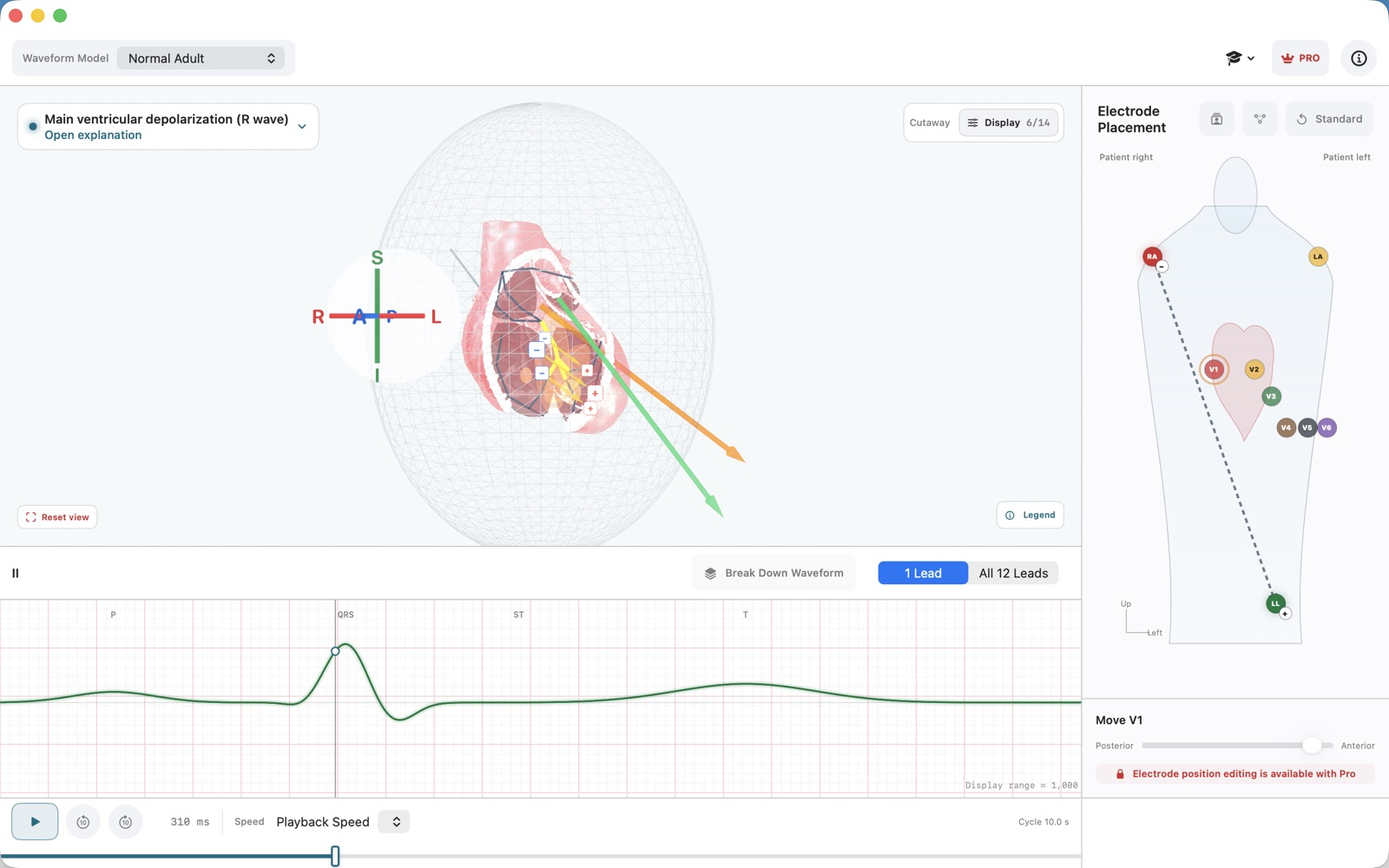
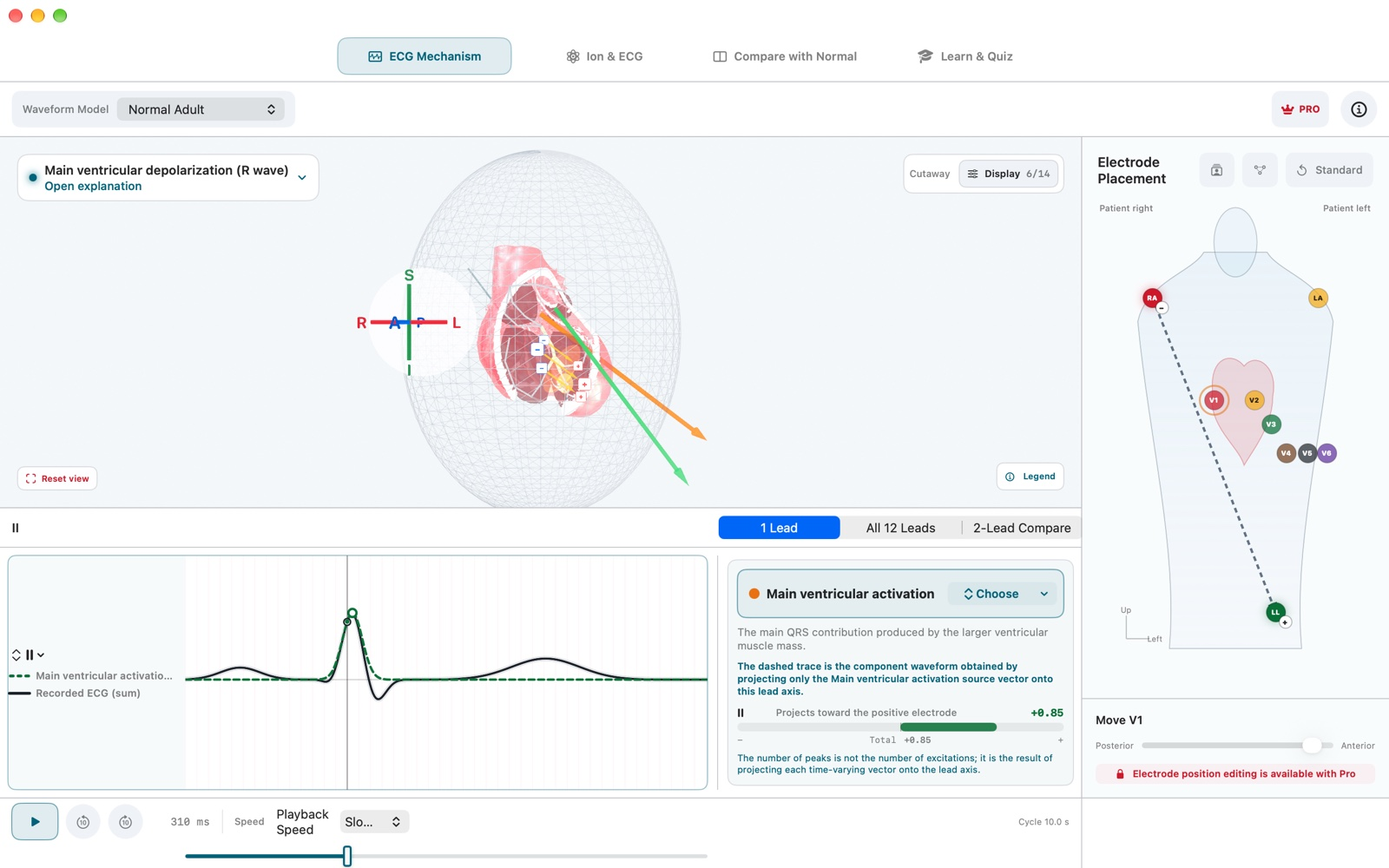
Update ECG Vector launch page and App Store links

diff --git a/ja/apps/ecg-vector/index.html b/ja/apps/ecg-vector/index.html
@@ -3,9 +3,9 @@
 <head>
   <meta charset="utf-8">
   <meta name="viewport" content="width=device-width, initial-scale=1">
-  <meta name="description" content="ECG Vectorは、心臓内の電気活動、心起電力ベクトル、誘導軸、心電図波形を同じ時間軸で学べるMac・iPhone・iPad対応の教育用3Dシミュレータです。">
+  <meta name="description" content="ECG Vectorは、3D心臓と12誘導心電図に加え、イオン電流・電解質から活動電位、QT時間、各誘導波形までをつなげて学べるMac・iPhone・iPad対応の教育用シミュレータです。">
   <meta property="og:title" content="ECG Vector — 心電図学習シミュレータ">
-  <meta property="og:description" content="ひとつの心起電力が、誘導ごとに違う波形になる理由を3Dで。">
+  <meta property="og:description" content="3D心臓、イオンチャネル、正常比較、クイズを通して、心電図がそう見える理由を学べます。">
   <meta property="og:type" content="website">
   <meta property="og:url" content="https://nakano-lab.github.io/ja/apps/ecg-vector/">
   <meta property="og:image" content="https://nakano-lab.github.io/assets/images/ecg-vector/ja/mac-simulation.jpg">
@@ -21,7 +21,7 @@
   <header class="site-header">
     <nav class="nav-wrap" aria-label="メインナビゲーション">
       <a class="brand" href="/ja/"><span class="brand-mark">N</span><span>Nakano Lab Software</span></a>
-      <div class="nav-links"><a href="/ja/#apps">アプリ</a><a href="/ja/apps/ecg-vector/support/">サポート</a><a href="/ja/apps/ecg-vector/privacy/">プライバシー</a><a class="language-link" href="/en/apps/ecg-vector/" lang="en" data-language-link="en">EN</a></div>
+      <div class="nav-links"><a href="/ja/#apps">アプリ</a><a href="https://apps.apple.com/app/ecg-vector/id6798066790">App Store</a><a href="/ja/apps/ecg-vector/support/">サポート</a><a href="/ja/apps/ecg-vector/privacy/">プライバシー</a><a class="language-link" href="/en/apps/ecg-vector/" lang="en" data-language-link="en">EN</a></div>
     </nav>
   </header>
 
@@ -36,18 +36,18 @@
           <div class="meta-row"><span class="tag">macOS 14+</span><span class="tag">iPhone</span><span class="tag">iPad</span><span class="tag">iOS 17+</span><span class="tag">10言語対応</span></div>
         </div>
       </div>
-      <p class="lead">心臓内を伝わる興奮、時々刻々の心起電力ベクトル、誘導軸への投影、そして記録される心電図波形を、ひとつの時間軸で観察する教育用シミュレータです。</p>
-      <div class="button-row"><a class="button primary" href="#features">機能を見る <span aria-hidden="true">↓</span></a><a class="button" href="/ja/apps/ecg-vector/support/">使い方・サポート</a></div>
+      <p class="lead">心臓内の興奮と心起電力ベクトル、イオン電流と活動電位、正常波形との違い、そして学習クイズを、4つの主要画面でつなげて学ぶ教育用シミュレータです。</p>
+      <div class="button-row"><a class="button primary" href="https://apps.apple.com/app/ecg-vector/id6798066790">App Storeで入手 <span aria-hidden="true">↗</span></a><a class="button" href="#features">機能を見る <span aria-hidden="true">↓</span></a><a class="button" href="/ja/apps/ecg-vector/support/">使い方・サポート</a></div>
     </section>
 
     <section class="section tinted" id="features">
       <div class="container">
-        <div class="section-head reveal"><p class="eyebrow">See the connection</p><h2 class="section-title">電気の流れから、波形の山まで。</h2><p class="section-copy">3D心臓と波形カーソルを同期させ、心電図が「そう見える理由」を途中のベクトルからたどれます。</p></div>
+        <div class="section-head reveal"><p class="eyebrow">Four workspaces</p><h2 class="section-title">心電図のしくみを、4つの視点で。</h2><p class="section-copy">3Dの電気活動からイオンチャネル、正常比較、クイズまで、主要機能を同じメイン画面のタブで切り替えられます。</p></div>
         <div class="feature-grid">
-          <article class="feature reveal"><span class="feature-number">01</span><h3>3D心臓と刺激伝導</h3><p>断面と外観を切り替え、洞結節から心房、房室結節、His–Purkinje系、心室へ広がる興奮を観察。電気活動に少し遅れる心房・心室の機械的収縮も表示します。</p></article>
-          <article class="feature reveal"><span class="feature-number">02</span><h3>心起電力と誘導投影</h3><p>波面上の微小双極子が加算・相殺されて心起電力 M(t) になり、誘導軸 L への投影 V(t) = M(t) · L が波形の上下として記録される流れを可視化します。</p></article>
-          <article class="feature reveal"><span class="feature-number">03</span><h3>2誘導で波形を分解</h3><p>同じ起電力成分を2つの誘導へ投影し、選択成分と合計波形を比較。ある誘導では1峰、別の誘導では2峰に見える理由を時間ごとに追えます。</p></article>
-          <article class="feature reveal"><span class="feature-number">04</span><h3>同期した12誘導一覧</h3><p>臨床で見慣れた3行×4列の配置で全12誘導を同じ時刻・同じ縦スケールに表示。波形カードを選ぶと、その誘導が3D表示と拡大波形へ反映されます。</p></article>
+          <article class="feature reveal"><span class="feature-number">01</span><h3>心電図のしくみ</h3><p>回転できる3D心臓で、興奮・再分極、心起電力、誘導軸への投影、12誘導波形を同じ時間軸に同期。1誘導の成分分解や2誘導比較で、波形がそう見える理由をたどれます。</p></article>
+          <article class="feature reveal"><span class="feature-number">02</span><h3>イオンと心電図</h3><p>ナトリウム・カルシウム・カリウム電流や細胞外電解質の変化が、心室活動電位、PR・QRS・QTなどの指標、選択誘導の波形へどう伝わるかを因果の流れで確認できます。</p></article>
+          <article class="feature reveal"><span class="feature-number">03</span><h3>正常と比較</h3><p>成人正常と右脚ブロックなどの典型波形を並べ、同じ誘導・同じ時間軸で比較。変化した区間と、その背景にある興奮伝播を見比べられます。</p></article>
+          <article class="feature reveal"><span class="feature-number">04</span><h3>学習・クイズ</h3><p>波形の特徴からモデルを見分ける問題で理解を確認。解答後は正常との差や注目すべき所見を、そのままシミュレーションで復習できます。</p></article>
           <article class="feature reveal"><span class="feature-number">05</span><h3>正常・小児・典型波形</h3><p>成人正常、小児正常、心房細動、右脚・左脚ブロック、軸偏位、左室肥大、ST上昇などの単純化した典型例を切り替えられます。</p></article>
           <article class="feature reveal"><span class="feature-number">06</span><h3>スロー再生とコマ送り</h3><p>0.05倍まで速度を落とし、一時停止、時間軸スクラブ、10 msコマ送りに対応。表示項目と心臓の透明度も同じパネルから調整できます。</p></article>
           <article class="feature reveal"><span class="feature-number">07</span><h3>Mac・iPhone・iPad</h3><p>MacとiPadでは一覧性を生かし、iPhoneでは3D、解説、波形を同時に確認しやすい構成へ。日本語、英語を含む主要10言語に対応します。</p></article>
@@ -60,8 +60,8 @@
         <div class="section-head reveal"><p class="eyebrow">In the app</p><h2 class="section-title">3D、解説、波形を同じ視界に。</h2></div>
         <div class="screenshot-grid">
           <figure class="shot reveal"><img src="/assets/images/ecg-vector/ja/mac-simulation.jpg" alt="Mac版ECG Vectorで3D心臓、誘導軸、波形を表示している画面" width="1600" height="1000" loading="lazy"><figcaption>Mac — 3D心臓と選択誘導の波形を同期</figcaption></figure>
-          <figure class="shot portrait reveal"><img src="/assets/images/ecg-vector/ja/ipad-breakdown.jpg" alt="iPad版ECG Vectorの2誘導波形分解画面" width="900" height="1200" loading="lazy"><figcaption>iPad — 2誘導へ投影して波形を分解</figcaption></figure>
-          <figure class="shot reveal"><img src="/assets/images/ecg-vector/ja/iphone-twelve-leads.jpg" alt="iPhone版ECG Vectorの12誘導一覧画面" width="1400" height="647" loading="lazy"><figcaption>iPhone — 12誘導を一覧して3D表示を選択</figcaption></figure>
+          <figure class="shot portrait reveal"><img src="/assets/images/ecg-vector/ja/ipad-breakdown.jpg" alt="iPad版ECG Vectorでイオン電流から活動電位と心電図の変化を表示している画面" width="900" height="1200" loading="lazy"><figcaption>iPad — イオン電流から活動電位・QT・心電図へ</figcaption></figure>
+          <figure class="shot reveal"><img src="/assets/images/ecg-vector/ja/iphone-twelve-leads.jpg" alt="iPhone版ECG Vectorで右脚ブロックを成人正常と比較している画面" width="1400" height="644" loading="lazy"><figcaption>iPhone — 典型波形を成人正常と並べて比較</figcaption></figure>
         </div>
       </div>
     </section>
@@ -69,15 +69,15 @@
     <section class="section tinted">
       <div class="container">
         <div class="split">
-          <article class="info-card reveal"><p class="eyebrow">Free</p><h3>成人正常から始める</h3><p>成人正常波形、代表6誘導（I、II、aVF、V1、V4、V6）、固定された標準電極位置を利用できます。3D、同期再生、スロー再生の基本学習を無料で試せます。</p></article>
-          <article class="info-card reveal"><p class="eyebrow">ECG Vector Pro</p><h3>買い切りで学習範囲を拡張</h3><p>サブスクリプションではありません。小児・典型疾患、全12誘導・任意誘導、電極位置編集と誤配置、正常比較、波形クイズ、お気に入りを解放します。同じApple Accountで購入を復元できます。</p></article>
+          <article class="info-card reveal"><p class="eyebrow">Free</p><h3>主要機能を無料で体験</h3><p>成人正常と右脚ブロック、標準12誘導、固定された標準電極位置、正常比較・クイズの体験、お気に入り、イオンと心電図の4つのガイド例を利用できます。</p></article>
+          <article class="info-card reveal"><p class="eyebrow">ECG Vector Pro</p><h3>買い切りで学習範囲を拡張</h3><p>サブスクリプションではありません。イオン電流・電解質の自由調整と同期12誘導表示、小児・その他の典型疾患、任意誘導、電極位置編集と誤配置、正常比較・クイズ全編を解放します。</p></article>
         </div>
-        <div class="button-row"><a class="button" href="/ja/apps/ecg-vector/support/">サポート</a><a class="button" href="/ja/apps/ecg-vector/privacy/">プライバシーポリシー</a></div>
+        <div class="button-row"><a class="button primary" href="https://apps.apple.com/app/ecg-vector/id6798066790">App Storeで入手 <span aria-hidden="true">↗</span></a><a class="button" href="/ja/apps/ecg-vector/support/">サポート</a><a class="button" href="/ja/apps/ecg-vector/privacy/">プライバシーポリシー</a></div>
       </div>
     </section>
   </main>
 
-  <footer class="site-footer"><div class="container footer-row"><p class="footer-copy">© <span data-current-year>2026</span> Takashi Nakano. All rights reserved.</p><div class="footer-links"><a href="/ja/apps/ecg-vector/support/">サポート</a><a href="/ja/apps/ecg-vector/privacy/">プライバシー</a></div></div></footer>
+  <footer class="site-footer"><div class="container footer-row"><p class="footer-copy">© <span data-current-year>2026</span> Takashi Nakano. All rights reserved.</p><div class="footer-links"><a href="https://apps.apple.com/app/ecg-vector/id6798066790">App Store</a><a href="/ja/apps/ecg-vector/support/">サポート</a><a href="/ja/apps/ecg-vector/privacy/">プライバシー</a></div></div></footer>
   <script src="/assets/js/site.js" defer></script>
 </body>
 </html>

diff --git a/en/apps/ecg-vector/index.html b/en/apps/ecg-vector/index.html
@@ -3,9 +3,9 @@
 <head>
   <meta charset="utf-8">
   <meta name="viewport" content="width=device-width, initial-scale=1">
-  <meta name="description" content="ECG Vector is an educational 3D simulator for Mac, iPhone, and iPad that connects cardiac electrical activity, the cardiac vector, lead projection, and recorded ECG waveforms.">
+  <meta name="description" content="ECG Vector is an educational simulator for Mac, iPhone, and iPad that connects a 3D heart and 12-lead ECG with ion currents, action potentials, QT changes, normal comparison, and quizzes.">
   <meta property="og:title" content="ECG Vector — 3D Cardiac Lead Simulator">
-  <meta property="og:description" content="See why one cardiac vector becomes a different waveform in every lead.">
+  <meta property="og:description" content="Learn why an ECG looks the way it does through a 3D heart, ion channels, normal comparison, and quizzes.">
   <meta property="og:type" content="website">
   <meta property="og:url" content="https://nakano-lab.github.io/en/apps/ecg-vector/">
   <meta property="og:image" content="https://nakano-lab.github.io/assets/images/ecg-vector/en/mac-simulation.jpg">
@@ -21,7 +21,7 @@
   <header class="site-header">
     <nav class="nav-wrap" aria-label="Main navigation">
       <a class="brand" href="/en/"><span class="brand-mark">N</span><span>Nakano Lab Software</span></a>
-      <div class="nav-links"><a href="/en/#apps">Apps</a><a href="/en/apps/ecg-vector/support/">Support</a><a href="/en/apps/ecg-vector/privacy/">Privacy</a><a class="language-link" href="/ja/apps/ecg-vector/" lang="ja" data-language-link="ja">日本語</a></div>
+      <div class="nav-links"><a href="/en/#apps">Apps</a><a href="https://apps.apple.com/app/ecg-vector/id6798066790">App Store</a><a href="/en/apps/ecg-vector/support/">Support</a><a href="/en/apps/ecg-vector/privacy/">Privacy</a><a class="language-link" href="/ja/apps/ecg-vector/" lang="ja" data-language-link="ja">日本語</a></div>
     </nav>
   </header>
 
@@ -32,18 +32,18 @@
         <img class="product-icon" src="/assets/images/ecg-vector/icon.png" alt="ECG Vector icon" width="512" height="512">
         <div><h1 class="page-title">ECG Vector</h1><p class="page-subtitle">3D Cardiac Lead Simulator</p><div class="meta-row"><span class="tag">macOS 14+</span><span class="tag">iPhone</span><span class="tag">iPad</span><span class="tag">iOS 17+</span><span class="tag">10 languages</span></div></div>
       </div>
-      <p class="lead">Observe excitation inside the heart, the changing cardiac vector, its projection onto a lead axis, and the recorded ECG waveform on one synchronized timeline.</p>
-      <div class="button-row"><a class="button primary" href="#features">Explore the features <span aria-hidden="true">↓</span></a><a class="button" href="/en/apps/ecg-vector/support/">Help &amp; support</a></div>
+      <p class="lead">Connect excitation and cardiac vectors, ion currents and action potentials, comparison with normal, and learning quizzes across four integrated workspaces.</p>
+      <div class="button-row"><a class="button primary" href="https://apps.apple.com/app/ecg-vector/id6798066790">Download on the App Store <span aria-hidden="true">↗</span></a><a class="button" href="#features">Explore the features <span aria-hidden="true">↓</span></a><a class="button" href="/en/apps/ecg-vector/support/">Help &amp; support</a></div>
     </section>
 
     <section class="section tinted" id="features">
       <div class="container">
-        <div class="section-head reveal"><p class="eyebrow">See the connection</p><h2 class="section-title">From electrical flow to every peak.</h2><p class="section-copy">The 3D heart and waveform cursor stay synchronized, so you can follow why the ECG looks the way it does through the vectors in between.</p></div>
+        <div class="section-head reveal"><p class="eyebrow">Four workspaces</p><h2 class="section-title">Understand the ECG from four angles.</h2><p class="section-copy">Move between 3D cardiac activity, ion channels, comparison with normal, and quizzes from the main workspace tabs.</p></div>
         <div class="feature-grid">
-          <article class="feature reveal"><span class="feature-number">01</span><h3>3D heart and conduction</h3><p>Switch between cutaway and exterior views. Follow excitation from the sinus node through the atria, AV node, His–Purkinje system, and ventricles, with mechanical atrial and ventricular contraction shown after electrical activation.</p></article>
-          <article class="feature reveal"><span class="feature-number">02</span><h3>Cardiac vector and projection</h3><p>See local microdipoles add and cancel into M(t), then project onto lead axis L. The signed component V(t) = M(t) · L becomes the upward or downward ECG deflection.</p></article>
-          <article class="feature reveal"><span class="feature-number">03</span><h3>Break down two leads</h3><p>Project the same source component onto two leads and compare the selected component with the total waveform. Follow why one event can look monophasic in one lead and biphasic in another.</p></article>
-          <article class="feature reveal"><span class="feature-number">04</span><h3>Synchronized 12-lead view</h3><p>View all 12 leads in the familiar 3-by-4 clinical layout with one time cursor and vertical scale. Select a waveform card to update the 3D lead axis and enlarged trace.</p></article>
+          <article class="feature reveal"><span class="feature-number">01</span><h3>ECG Mechanism</h3><p>Synchronize excitation, repolarization, the cardiac vector, lead-axis projection, and all 12 leads with a rotatable 3D heart. Break down one lead or compare two to see why each waveform takes its shape.</p></article>
+          <article class="feature reveal"><span class="feature-number">02</span><h3>Ion &amp; ECG</h3><p>Follow how sodium, calcium, and potassium currents and extracellular electrolytes alter the ventricular action potential, ECG intervals such as QRS and QT, and lead-specific waveform morphology.</p></article>
+          <article class="feature reveal"><span class="feature-number">03</span><h3>Compare with Normal</h3><p>Place Adult Normal beside patterns such as Right Bundle Branch Block on the same lead and timeline. Compare the changed intervals with their underlying activation sequence.</p></article>
+          <article class="feature reveal"><span class="feature-number">04</span><h3>Learn &amp; Quiz</h3><p>Identify a model from its waveform features, then review the key findings and compare them directly in the simulator.</p></article>
           <article class="feature reveal"><span class="feature-number">05</span><h3>Normal, pediatric, and typical patterns</h3><p>Switch among adult and pediatric normal ECGs and simplified examples of atrial fibrillation, bundle branch block, axis deviation, ventricular hypertrophy, and ST elevation.</p></article>
           <article class="feature reveal"><span class="feature-number">06</span><h3>Slow playback and stepping</h3><p>Slow time to 0.05×, pause, scrub, or step by 10 ms. Manage visible structures and heart opacity from one display panel.</p></article>
           <article class="feature reveal"><span class="feature-number">07</span><h3>Mac, iPhone, and iPad</h3><p>Use the wider overview on Mac and iPad, or keep the 3D heart, explanation, and waveform together on iPhone. The interface supports 10 major languages.</p></article>
@@ -56,8 +56,8 @@
         <div class="section-head reveal"><p class="eyebrow">In the app</p><h2 class="section-title">3D, explanation, and waveform in one view.</h2></div>
         <div class="screenshot-grid">
           <figure class="shot reveal"><img src="/assets/images/ecg-vector/en/mac-simulation.jpg" alt="ECG Vector for Mac showing the 3D heart, lead axis, and synchronized waveform" width="1600" height="1000" loading="lazy"><figcaption>Mac — synchronize the 3D heart with the selected lead</figcaption></figure>
-          <figure class="shot portrait reveal"><img src="/assets/images/ecg-vector/en/ipad-breakdown.jpg" alt="Two-lead waveform breakdown in ECG Vector for iPad" width="900" height="1200" loading="lazy"><figcaption>iPad — project one component into two leads</figcaption></figure>
-          <figure class="shot reveal"><img src="/assets/images/ecg-vector/en/iphone-twelve-leads.jpg" alt="The synchronized 12-lead overview in ECG Vector for iPhone" width="1400" height="647" loading="lazy"><figcaption>iPhone — select the 3D lead from the 12-lead overview</figcaption></figure>
+          <figure class="shot portrait reveal"><img src="/assets/images/ecg-vector/en/ipad-breakdown.jpg" alt="ECG Vector for iPad showing how ion-current changes affect the action potential and ECG" width="900" height="1200" loading="lazy"><figcaption>iPad — from ion currents to action potential, QT, and ECG</figcaption></figure>
+          <figure class="shot reveal"><img src="/assets/images/ecg-vector/en/iphone-twelve-leads.jpg" alt="ECG Vector for iPhone comparing Right Bundle Branch Block with Adult Normal" width="1400" height="644" loading="lazy"><figcaption>iPhone — compare a typical pattern with Adult Normal</figcaption></figure>
         </div>
       </div>
     </section>
@@ -65,15 +65,15 @@
     <section class="section tinted">
       <div class="container">
         <div class="split">
-          <article class="info-card reveal"><p class="eyebrow">Free</p><h3>Start with the normal adult ECG</h3><p>Use the adult normal pattern, six representative leads (I, II, aVF, V1, V4, and V6), and fixed standard electrode positions. The core 3D, synchronized, and slow-playback learning experience is free.</p></article>
-          <article class="info-card reveal"><p class="eyebrow">ECG Vector Pro</p><h3>One purchase, broader exploration</h3><p>This is not a subscription. Unlock pediatric and typical clinical patterns, all 12 and custom leads, electrode editing and misplacement, normal comparison, waveform quizzes, and favorites. Restore on devices using the same Apple Account.</p></article>
+          <article class="info-card reveal"><p class="eyebrow">Free</p><h3>Try every core workspace</h3><p>Use Adult Normal and Right Bundle Branch Block, all 12 standard ECG leads, fixed standard electrode positions, comparison and quiz samples, favorites, and four guided Ion &amp; ECG examples.</p></article>
+          <article class="info-card reveal"><p class="eyebrow">ECG Vector Pro</p><h3>One purchase, broader exploration</h3><p>This is not a subscription. Unlock free adjustment of ion currents and electrolytes with synchronized 12-lead response, pediatric and other clinical patterns, custom leads, electrode editing and misplacement presets, and the complete comparison and quiz libraries.</p></article>
         </div>
-        <div class="button-row"><a class="button" href="/en/apps/ecg-vector/support/">Support</a><a class="button" href="/en/apps/ecg-vector/privacy/">Privacy Policy</a></div>
+        <div class="button-row"><a class="button primary" href="https://apps.apple.com/app/ecg-vector/id6798066790">Download on the App Store <span aria-hidden="true">↗</span></a><a class="button" href="/en/apps/ecg-vector/support/">Support</a><a class="button" href="/en/apps/ecg-vector/privacy/">Privacy Policy</a></div>
       </div>
     </section>
   </main>
 
-  <footer class="site-footer"><div class="container footer-row"><p class="footer-copy">© <span data-current-year>2026</span> Takashi Nakano. All rights reserved.</p><div class="footer-links"><a href="/en/apps/ecg-vector/support/">Support</a><a href="/en/apps/ecg-vector/privacy/">Privacy</a></div></div></footer>
+  <footer class="site-footer"><div class="container footer-row"><p class="footer-copy">© <span data-current-year>2026</span> Takashi Nakano. All rights reserved.</p><div class="footer-links"><a href="https://apps.apple.com/app/ecg-vector/id6798066790">App Store</a><a href="/en/apps/ecg-vector/support/">Support</a><a href="/en/apps/ecg-vector/privacy/">Privacy</a></div></div></footer>
   <script src="/assets/js/site.js" defer></script>
 </body>
 </html>

diff --git a/en/apps/ecg-vector/support/index.html b/en/apps/ecg-vector/support/index.html
@@ -10,17 +10,17 @@
 </head>
 <body>
   <a class="skip-link" href="#main">Skip to content</a>
-  <header class="site-header"><nav class="nav-wrap" aria-label="Main navigation"><a class="brand" href="/en/"><span class="brand-mark">N</span><span>Nakano Lab Software</span></a><div class="nav-links"><a href="/en/apps/ecg-vector/">ECG Vector</a><a href="/en/apps/ecg-vector/privacy/">Privacy</a><a class="language-link" href="/ja/apps/ecg-vector/support/" lang="ja" data-language-link="ja">日本語</a></div></nav></header>
+  <header class="site-header"><nav class="nav-wrap" aria-label="Main navigation"><a class="brand" href="/en/"><span class="brand-mark">N</span><span>Nakano Lab Software</span></a><div class="nav-links"><a href="/en/apps/ecg-vector/">ECG Vector</a><a href="https://apps.apple.com/app/ecg-vector/id6798066790">App Store</a><a href="/en/apps/ecg-vector/privacy/">Privacy</a><a class="language-link" href="/ja/apps/ecg-vector/support/" lang="ja" data-language-link="ja">日本語</a></div></nav></header>
   <main id="main" class="container document-layout">
-    <aside class="doc-nav" aria-label="On this page"><strong>On this page</strong><a href="#start">Getting started</a><a href="#reading">Reading the 3D view</a><a href="#breakdown">Waveform breakdown</a><a href="#display">Display and view</a><a href="#pro">Free and Pro</a><a href="#troubleshooting">Troubleshooting</a><a href="#contact">Contact</a></aside>
+    <aside class="doc-nav" aria-label="On this page"><strong>On this page</strong><a href="#start">Getting started</a><a href="#reading">Reading the 3D view</a><a href="#breakdown">Waveform breakdown</a><a href="#display">Display and view</a><a href="#ion">Ion &amp; ECG</a><a href="#pro">Free and Pro</a><a href="#troubleshooting">Troubleshooting</a><a href="#contact">Contact</a></aside>
     <article class="document">
       <p class="breadcrumbs"><a href="/en/">Nakano Lab Software</a> / <a href="/en/apps/ecg-vector/">ECG Vector</a> / Support</p>
       <h1>ECG Vector<br>Support</h1>
-      <p class="updated">Updated August 9, 2026 · Requires macOS 14+ or iOS/iPadOS 17+</p>
+      <p class="updated">Updated September 24, 2026 · Requires macOS 14+ or iOS/iPadOS 17+</p>
       <p>ECG Vector is an educational simulator for learning how electrical activity in the heart relates to the waveform recorded by each lead. Do not use it for diagnosis, treatment decisions, or patient-specific waveform prediction.</p>
 
       <h2 id="start">1. Getting started</h2>
-      <ol><li>Choose Adult Normal, Pediatric Normal, or a typical pattern under Waveform Model. The free version includes Adult Normal.</li><li>Select a waveform card in the 12-lead overview. That lead becomes the 3D lead axis and enlarged trace.</li><li>Select Play, then choose 0.05× to 1.0× under Speed. Dragging the timeline pauses playback and moves every waveform cursor to the selected time.</li><li>Use the two 10 ms controls to step backward or forward while paused.</li><li>Drag the 3D view to rotate it, and pinch or scroll to zoom. Select Reset View to return to the standard orientation.</li></ol>
+      <ol><li>Choose ECG Mechanism, Ion &amp; ECG, Compare with Normal, or Learn &amp; Quiz from the main tabs.</li><li>In ECG Mechanism, choose Adult Normal, Right Bundle Branch Block, Pediatric Normal, or another typical pattern under Waveform Model.</li><li>Select a waveform card in the 12-lead overview. That lead becomes the 3D lead axis and enlarged trace.</li><li>Select Play, then choose 0.05× to 1.0× under Speed. Dragging the timeline pauses playback and moves every waveform cursor to the selected time.</li><li>Use the two 10 ms controls to step backward or forward while paused.</li><li>Drag the 3D view to rotate it, and pinch or scroll to zoom. Select Reset View to return to the standard orientation.</li></ol>
 
       <h2 id="reading">2. Reading the 3D view</h2>
       <h3>Excitation and repolarization</h3><p>The yellow luminous trail approximates the depolarization wavefront. The pink trail approximates ventricular repolarization—the electrical recovery associated with the T wave, not a second excitation.</p>
@@ -36,25 +36,29 @@
       <p>Open Display inside the 3D panel to switch between Cutaway and Exterior and independently show or hide the heart, internal structures, conduction system, electrical activity, mechanical contraction, lead measurement, and electrodes. Heart opacity is in the same panel.</p>
       <ul><li>The default is Cutaway, with internal structures and electrodes hidden.</li><li>Selecting a legend entry highlights the matching element in 3D.</li><li>The orientation compass uses the patient’s right, left, superior, inferior, anterior, and posterior directions.</li><li>The front electrode map faces the patient: screen left is the patient’s right.</li></ul>
 
-      <h2 id="pro">5. Free access and ECG Vector Pro</h2>
-      <p>The free version includes Adult Normal, leads I, II, aVF, V1, V4, and V6, and fixed standard electrode positions.</p>
-      <p>ECG Vector Pro is a one-time non-consumable purchase, not a subscription. It unlocks pediatric and typical clinical patterns, all 12 and custom leads, electrode editing and misplacement, normal comparison, waveform quizzes, and favorites.</p>
+      <h2 id="ion">5. Ion &amp; ECG</h2>
+      <p>Choose a guided example to update an ion current or extracellular electrolyte, the ventricular action potential, intervals such as PR, QRS, and QT, and the selected lead waveform together. For example, Increased Late Sodium shows the path from a prolonged action potential to QT prolongation.</p>
+      <p>These displays are simplified educational models for understanding causal relationships. They do not predict an individual drug effect, diagnosis, or treatment decision.</p>
+
+      <h2 id="pro">6. Free access and ECG Vector Pro</h2>
+      <p>The free version includes Adult Normal and Right Bundle Branch Block, all 12 standard ECG leads, fixed standard electrode positions, comparison and quiz samples, favorites, and four guided Ion &amp; ECG examples.</p>
+      <p>ECG Vector Pro is a one-time non-consumable purchase, not a subscription. It unlocks free adjustment of ion currents and electrolytes with synchronized 12-lead response, pediatric and other clinical patterns, custom leads, electrode editing and misplacement presets, and the complete comparison and quiz libraries.</p>
       <h3>Purchase Pro</h3><ol><li>Select the crown or PRO control in the top bar.</li><li>Wait for Apple to load the localized price.</li><li>Select the price button and complete Apple’s purchase sheet.</li></ol>
       <h3>Restore a purchase</h3><p>On a Mac, iPhone, or iPad signed in with the Apple Account used for purchase, open the Pro screen and select Restore Purchases. Syncing across devices can take a short time.</p>
 
-      <h2 id="troubleshooting">6. Troubleshooting</h2>
+      <h2 id="troubleshooting">7. Troubleshooting</h2>
       <h3>Only Reload Purchase Information and Restore Purchases are shown</h3><p>StoreKit has not loaded the product. Check your connection, confirm that the App Store is signed in, update ECG Vector, and confirm that the purchase is available in your country or region. Wait briefly, then select Reload Purchase Information. Purchases in TestFlight builds are handled in Apple’s test environment.</p>
       <h3>Pro is not active after purchase</h3><p>Confirm that you are using the same Apple Account, select Restore Purchases, then quit and reopen the app. A pending purchase activates after Apple approves it.</p>
       <h3>The 3D view is slow</h3><p>Open Display and hide internal structures, electrodes, or other overlays you do not need. Close the explanation and other demanding apps, then reopen ECG Vector.</p>
       <h3>The top items in the Display panel cannot be selected</h3><p>Update to the latest app version. The panel should remain fixed on screen while its contents scroll. If the issue remains, contact support with the device model, display zoom, and orientation.</p>
       <h3>Change the interface language</h3><p>ECG Vector follows the device or per-app language. Open Settings → ECG Vector → Language and choose a supported language.</p>
 
-      <h2 id="contact">7. Contact</h2>
+      <h2 id="contact">8. Contact</h2>
       <p>Do not include patient or personal information in a report. Include the ECG Vector version and build, device and OS, selected waveform model and lead, steps leading to the issue, and any message shown.</p>
       <div class="contact-box"><strong>ECG Vector Support</strong><br>Operator: Takashi Nakano<br>Email: <a href="mailto:nakano.prog@gmail.com">nakano.prog@gmail.com</a></div>
     </article>
   </main>
-  <footer class="site-footer"><div class="container footer-row"><p class="footer-copy">© <span data-current-year>2026</span> Takashi Nakano.</p><div class="footer-links"><a href="/en/apps/ecg-vector/">ECG Vector</a><a href="/en/apps/ecg-vector/privacy/">Privacy</a></div></div></footer>
+  <footer class="site-footer"><div class="container footer-row"><p class="footer-copy">© <span data-current-year>2026</span> Takashi Nakano.</p><div class="footer-links"><a href="https://apps.apple.com/app/ecg-vector/id6798066790">App Store</a><a href="/en/apps/ecg-vector/">ECG Vector</a><a href="/en/apps/ecg-vector/privacy/">Privacy</a></div></div></footer>
   <script src="/assets/js/site.js" defer></script>
 </body>
 </html>

diff --git a/ja/apps/ecg-vector/support/index.html b/ja/apps/ecg-vector/support/index.html
@@ -10,18 +10,19 @@
 </head>
 <body>
   <a class="skip-link" href="#main">本文へ移動</a>
-  <header class="site-header"><nav class="nav-wrap" aria-label="メインナビゲーション"><a class="brand" href="/ja/"><span class="brand-mark">N</span><span>Nakano Lab Software</span></a><div class="nav-links"><a href="/ja/apps/ecg-vector/">ECG Vector</a><a href="/ja/apps/ecg-vector/privacy/">プライバシー</a><a class="language-link" href="/en/apps/ecg-vector/support/" lang="en" data-language-link="en">EN</a></div></nav></header>
+  <header class="site-header"><nav class="nav-wrap" aria-label="メインナビゲーション"><a class="brand" href="/ja/"><span class="brand-mark">N</span><span>Nakano Lab Software</span></a><div class="nav-links"><a href="/ja/apps/ecg-vector/">ECG Vector</a><a href="https://apps.apple.com/app/ecg-vector/id6798066790">App Store</a><a href="/ja/apps/ecg-vector/privacy/">プライバシー</a><a class="language-link" href="/en/apps/ecg-vector/support/" lang="en" data-language-link="en">EN</a></div></nav></header>
   <main id="main" class="container document-layout">
-    <aside class="doc-nav" aria-label="ページ内目次"><strong>このページ</strong><a href="#start">基本操作</a><a href="#reading">3Dの読み方</a><a href="#breakdown">波形分解</a><a href="#display">表示と視点</a><a href="#pro">無料版とPro</a><a href="#troubleshooting">よくある問題</a><a href="#contact">お問い合わせ</a></aside>
+    <aside class="doc-nav" aria-label="ページ内目次"><strong>このページ</strong><a href="#start">基本操作</a><a href="#reading">3Dの読み方</a><a href="#breakdown">波形分解</a><a href="#display">表示と視点</a><a href="#ion">イオンと心電図</a><a href="#pro">無料版とPro</a><a href="#troubleshooting">よくある問題</a><a href="#contact">お問い合わせ</a></aside>
     <article class="document">
       <p class="breadcrumbs"><a href="/ja/">Nakano Lab Software</a> / <a href="/ja/apps/ecg-vector/">ECG Vector</a> / サポート</p>
       <h1>ECG Vector<br>サポート</h1>
-      <p class="updated">更新日: 2026年8月9日 · 対応: macOS 14以降／iOS・iPadOS 17以降</p>
+      <p class="updated">更新日: 2026年9月24日 · 対応: macOS 14以降／iOS・iPadOS 17以降</p>
       <p>ECG Vectorは、心臓内の電気活動と各誘導に記録される波形の関係を学ぶための教育用シミュレータです。診断、治療判断、患者固有の波形予測には使用できません。</p>
 
       <h2 id="start">1. 基本操作</h2>
       <ol>
-        <li>「波形モデル」から成人正常、小児正常、または学びたい典型波形を選びます。無料版では成人正常を利用できます。</li>
+        <li>上部の「心電図のしくみ」「イオンと心電図」「正常と比較」「学習・クイズ」から、学びたい画面を選びます。</li>
+        <li>「心電図のしくみ」では、波形モデルから成人正常、右脚ブロック、小児正常、または学びたい典型波形を選びます。</li>
         <li>12誘導一覧の波形カードを選ぶと、その誘導が3Dの誘導軸と拡大波形へ反映されます。</li>
         <li>再生ボタンで開始し、速度メニューから0.05〜1.0倍を選びます。時間バーを動かすと再生が一時停止し、任意の時相を確認できます。</li>
         <li>左右の10 msボタンで、停止したまま少しずつ進めたり戻したりできます。</li>
@@ -46,13 +47,17 @@
       <p>3Dパネル内の「表示」を開くと、断面／外観、心臓、内部構造、刺激伝導系、電気活動、機械的収縮、誘導計測、電極などを個別に表示・非表示できます。透明度も同じパネルで調整できます。</p>
       <ul><li>初期状態は断面で、内部構造と電極は非表示です。</li><li>凡例を選ぶと、対応する3D要素を強調できます。</li><li>方位コンパスの右・左・上・下・前・後は患者基準です。</li><li>正面の電極図は患者と向かい合った図なので、画面左が患者右、画面右が患者左です。</li></ul>
 
-      <h2 id="pro">5. 無料版とECG Vector Pro</h2>
-      <p>無料版では、成人正常、I・II・aVF・V1・V4・V6誘導、固定された標準電極位置を利用できます。</p>
-      <p>ECG Vector Proは買い切りの非消耗型購入です。小児と典型的な臨床波形、全12誘導と任意誘導、電極位置編集と誤配置、正常比較、波形クイズ、お気に入りを解放します。サブスクリプションではありません。</p>
+      <h2 id="ion">5. イオンと心電図</h2>
+      <p>「イオンと心電図」では、ガイド例を選ぶとイオン電流または細胞外電解質の変化、心室活動電位、PR・QRS・QTなどの指標、選択誘導の波形が一緒に更新されます。たとえば「後期ナトリウム電流増加」では、活動電位の延長からQT延長へ至る流れを確認できます。</p>
+      <p>各表示は因果関係を理解するための単純化された教育用モデルであり、個別の薬剤効果、診断、治療判断を予測するものではありません。</p>
+
+      <h2 id="pro">6. 無料版とECG Vector Pro</h2>
+      <p>無料版では、成人正常と右脚ブロック、標準12誘導、固定された標準電極位置、正常比較・クイズの体験、お気に入り、イオンと心電図の4つのガイド例を利用できます。</p>
+      <p>ECG Vector Proは買い切りの非消耗型購入です。イオン電流・電解質の自由調整と同期12誘導表示、小児・その他の典型的な臨床波形、任意誘導、電極位置編集と誤配置、正常比較・クイズ全編を解放します。サブスクリプションではありません。</p>
       <h3>購入する</h3><ol><li>上部の王冠／「PRO」を選びます。</li><li>Appleから価格が読み込まれるまで待ちます。</li><li>価格付き購入ボタンを選び、Appleの購入画面を完了します。</li></ol>
       <h3>購入を復元する</h3><p>購入時と同じApple AccountでサインインしたMac、iPhone、iPadからPro画面を開き、「購入を復元」を選びます。端末間の反映に少し時間がかかる場合があります。</p>
 
-      <h2 id="troubleshooting">6. よくある問題</h2>
+      <h2 id="troubleshooting">7. よくある問題</h2>
       <h3>購入ボタンがなく、「購入情報を再読み込み」と「購入を復元」だけが表示される</h3>
       <p>StoreKitが製品情報を取得できていない状態です。通信を確認し、App StoreへApple Accountでサインインしていること、アプリが最新であること、購入が利用可能な国・地域であることを確認してください。少し待ってから「購入情報を再読み込み」を選びます。TestFlight版の購入はAppleのテスト環境で処理されます。</p>
       <h3>購入済みなのにProが有効にならない</h3><p>購入時と同じApple Accountを確認し、「購入を復元」を実行してください。その後アプリを終了して開き直します。購入完了が保留中の場合は、Apple側の承認後に反映されます。</p>
@@ -60,12 +65,12 @@
       <h3>表示パネルの上側を選べない</h3><p>アプリを最新バージョンへ更新してください。パネルは画面内に固定され、内容をスクロールできます。改善しない場合は端末の表示拡大設定と画面の向きを添えてお問い合わせください。</p>
       <h3>言語を変更したい</h3><p>ECG Vectorは端末またはアプリごとの言語設定に従います。設定アプリの「ECG Vector」→「言語」から、対応する言語を選んでください。</p>
 
-      <h2 id="contact">7. お問い合わせ</h2>
+      <h2 id="contact">8. お問い合わせ</h2>
       <p>問題を報告するときは、患者情報や個人情報を含めず、ECG Vectorのバージョンとビルド、端末とOS、選択した波形モデルと誘導、問題が起きるまでの操作、表示されたメッセージをお知らせください。</p>
       <div class="contact-box"><strong>ECG Vector Support</strong><br>運営者: Takashi Nakano<br>メール: <a href="mailto:nakano.prog@gmail.com">nakano.prog@gmail.com</a></div>
     </article>
   </main>
-  <footer class="site-footer"><div class="container footer-row"><p class="footer-copy">© <span data-current-year>2026</span> Takashi Nakano.</p><div class="footer-links"><a href="/ja/apps/ecg-vector/">ECG Vector</a><a href="/ja/apps/ecg-vector/privacy/">プライバシー</a></div></div></footer>
+  <footer class="site-footer"><div class="container footer-row"><p class="footer-copy">© <span data-current-year>2026</span> Takashi Nakano.</p><div class="footer-links"><a href="https://apps.apple.com/app/ecg-vector/id6798066790">App Store</a><a href="/ja/apps/ecg-vector/">ECG Vector</a><a href="/ja/apps/ecg-vector/privacy/">プライバシー</a></div></div></footer>
   <script src="/assets/js/site.js" defer></script>
 </body>
 </html>

diff --git a/ja/apps/ecg-vector/privacy/index.html b/ja/apps/ecg-vector/privacy/index.html
@@ -10,13 +10,13 @@
 </head>
 <body>
   <a class="skip-link" href="#main">本文へ移動</a>
-  <header class="site-header"><nav class="nav-wrap" aria-label="メインナビゲーション"><a class="brand" href="/ja/"><span class="brand-mark">N</span><span>Nakano Lab Software</span></a><div class="nav-links"><a href="/ja/apps/ecg-vector/">ECG Vector</a><a href="/ja/apps/ecg-vector/support/">サポート</a><a class="language-link" href="/en/apps/ecg-vector/privacy/" lang="en" data-language-link="en">EN</a></div></nav></header>
+  <header class="site-header"><nav class="nav-wrap" aria-label="メインナビゲーション"><a class="brand" href="/ja/"><span class="brand-mark">N</span><span>Nakano Lab Software</span></a><div class="nav-links"><a href="/ja/apps/ecg-vector/">ECG Vector</a><a href="https://apps.apple.com/app/ecg-vector/id6798066790">App Store</a><a href="/ja/apps/ecg-vector/support/">サポート</a><a class="language-link" href="/en/apps/ecg-vector/privacy/" lang="en" data-language-link="en">EN</a></div></nav></header>
   <main id="main" class="container document-layout">
     <aside class="doc-nav" aria-label="ページ内目次"><strong>このページ</strong><a href="#collection">データ収集</a><a href="#input">入力データ</a><a href="#local">端末内データ</a><a href="#purchase">購入</a><a href="#links">外部リンク</a><a href="#children">子どものプライバシー</a><a href="#contact">お問い合わせ</a></aside>
     <article class="document">
       <p class="breadcrumbs"><a href="/ja/">Nakano Lab Software</a> / <a href="/ja/apps/ecg-vector/">ECG Vector</a> / プライバシー</p>
       <h1>プライバシー<br>ポリシー</h1>
-      <p class="updated">施行日: 2026年8月9日 · 運営者: Takashi Nakano</p>
+      <p class="updated">施行日: 2026年9月24日 · 運営者: Takashi Nakano</p>
       <p>ECG Vector（以下「本アプリ」）は、利用者のプライバシーを尊重します。本ポリシーでは、本アプリが扱う情報と、その処理方法を説明します。</p>
 
       <h2 id="collection">1. 開発者によるデータ収集</h2>
@@ -55,7 +55,7 @@
       <div class="contact-box">運営者: Takashi Nakano<br>メール: <a href="mailto:nakano.prog@gmail.com">nakano.prog@gmail.com</a><br>Web: <a href="https://nakano-lab.github.io/ja/apps/ecg-vector/">nakano-lab.github.io/ja/apps/ecg-vector/</a></div>
     </article>
   </main>
-  <footer class="site-footer"><div class="container footer-row"><p class="footer-copy">© <span data-current-year>2026</span> Takashi Nakano.</p><div class="footer-links"><a href="/ja/apps/ecg-vector/">ECG Vector</a><a href="/ja/apps/ecg-vector/support/">サポート</a></div></div></footer>
+  <footer class="site-footer"><div class="container footer-row"><p class="footer-copy">© <span data-current-year>2026</span> Takashi Nakano.</p><div class="footer-links"><a href="https://apps.apple.com/app/ecg-vector/id6798066790">App Store</a><a href="/ja/apps/ecg-vector/">ECG Vector</a><a href="/ja/apps/ecg-vector/support/">サポート</a></div></div></footer>
   <script src="/assets/js/site.js" defer></script>
 </body>
 </html>

diff --git a/en/apps/ecg-vector/privacy/index.html b/en/apps/ecg-vector/privacy/index.html
@@ -10,13 +10,13 @@
 </head>
 <body>
   <a class="skip-link" href="#main">Skip to content</a>
-  <header class="site-header"><nav class="nav-wrap" aria-label="Main navigation"><a class="brand" href="/en/"><span class="brand-mark">N</span><span>Nakano Lab Software</span></a><div class="nav-links"><a href="/en/apps/ecg-vector/">ECG Vector</a><a href="/en/apps/ecg-vector/support/">Support</a><a class="language-link" href="/ja/apps/ecg-vector/privacy/" lang="ja" data-language-link="ja">日本語</a></div></nav></header>
+  <header class="site-header"><nav class="nav-wrap" aria-label="Main navigation"><a class="brand" href="/en/"><span class="brand-mark">N</span><span>Nakano Lab Software</span></a><div class="nav-links"><a href="/en/apps/ecg-vector/">ECG Vector</a><a href="https://apps.apple.com/app/ecg-vector/id6798066790">App Store</a><a href="/en/apps/ecg-vector/support/">Support</a><a class="language-link" href="/ja/apps/ecg-vector/privacy/" lang="ja" data-language-link="ja">日本語</a></div></nav></header>
   <main id="main" class="container document-layout">
     <aside class="doc-nav" aria-label="On this page"><strong>On this page</strong><a href="#collection">Data collection</a><a href="#input">Patient data</a><a href="#local">Local data</a><a href="#purchase">Purchases</a><a href="#links">External links</a><a href="#children">Children</a><a href="#contact">Contact</a></aside>
     <article class="document">
       <p class="breadcrumbs"><a href="/en/">Nakano Lab Software</a> / <a href="/en/apps/ecg-vector/">ECG Vector</a> / Privacy</p>
       <h1>Privacy<br>Policy</h1>
-      <p class="updated">Effective August 9, 2026 · Operator: Takashi Nakano</p>
+      <p class="updated">Effective September 24, 2026 · Operator: Takashi Nakano</p>
       <p>ECG Vector (“the App”) respects your privacy. This policy explains the information the App handles and how it is processed.</p>
 
       <h2 id="collection">1. Data collected by the developer</h2>
@@ -55,7 +55,7 @@
       <div class="contact-box">Operator: Takashi Nakano<br>Email: <a href="mailto:nakano.prog@gmail.com">nakano.prog@gmail.com</a><br>Web: <a href="https://nakano-lab.github.io/en/apps/ecg-vector/">nakano-lab.github.io/en/apps/ecg-vector/</a></div>
     </article>
   </main>
-  <footer class="site-footer"><div class="container footer-row"><p class="footer-copy">© <span data-current-year>2026</span> Takashi Nakano.</p><div class="footer-links"><a href="/en/apps/ecg-vector/">ECG Vector</a><a href="/en/apps/ecg-vector/support/">Support</a></div></div></footer>
+  <footer class="site-footer"><div class="container footer-row"><p class="footer-copy">© <span data-current-year>2026</span> Takashi Nakano.</p><div class="footer-links"><a href="https://apps.apple.com/app/ecg-vector/id6798066790">App Store</a><a href="/en/apps/ecg-vector/">ECG Vector</a><a href="/en/apps/ecg-vector/support/">Support</a></div></div></footer>
   <script src="/assets/js/site.js" defer></script>
 </body>
 </html>

diff --git a/en/index.html b/en/index.html
@@ -71,7 +71,7 @@
 
           <a class="app-card reveal" href="/en/apps/ecg-vector/">
             <div class="card-top"><img class="app-icon" src="/assets/images/ecg-vector/icon.png" alt="" width="512" height="512"><div><p class="card-kicker">Mac · iPhone · iPad</p><h3 class="card-title">ECG Vector</h3></div></div>
-            <p class="card-copy">Synchronize electrical activity, the cardiac vector, lead projection, and all 12 waveforms. Slow time and break down two leads to see why each ECG looks different.</p>
+            <p class="card-copy">Connect a 3D heart and 12-lead ECG with ion-current effects on action potentials and QT, comparison with normal, and waveform quizzes across four main workspaces.</p>
             <span class="card-link">Learn more <span aria-hidden="true">↗</span></span>
           </a>
 

diff --git a/ja/index.html b/ja/index.html
@@ -77,7 +77,7 @@
               <img class="app-icon" src="/assets/images/ecg-vector/icon.png" alt="" width="512" height="512">
               <div><p class="card-kicker">Mac · iPhone · iPad</p><h3 class="card-title">ECG Vector</h3></div>
             </div>
-            <p class="card-copy">心臓内の電気活動、心起電力、誘導軸への投影、12誘導波形を同期。スロー再生と2誘導の波形分解で、波形がそう見える理由を3Dで学びます。</p>
+            <p class="card-copy">3D心臓と12誘導波形に加え、イオン電流から活動電位・QT時間への変化、正常との比較、学習クイズを4つの主要画面でつなげて学びます。</p>
             <span class="card-link">詳しく見る <span aria-hidden="true">↗</span></span>
           </a>
 
